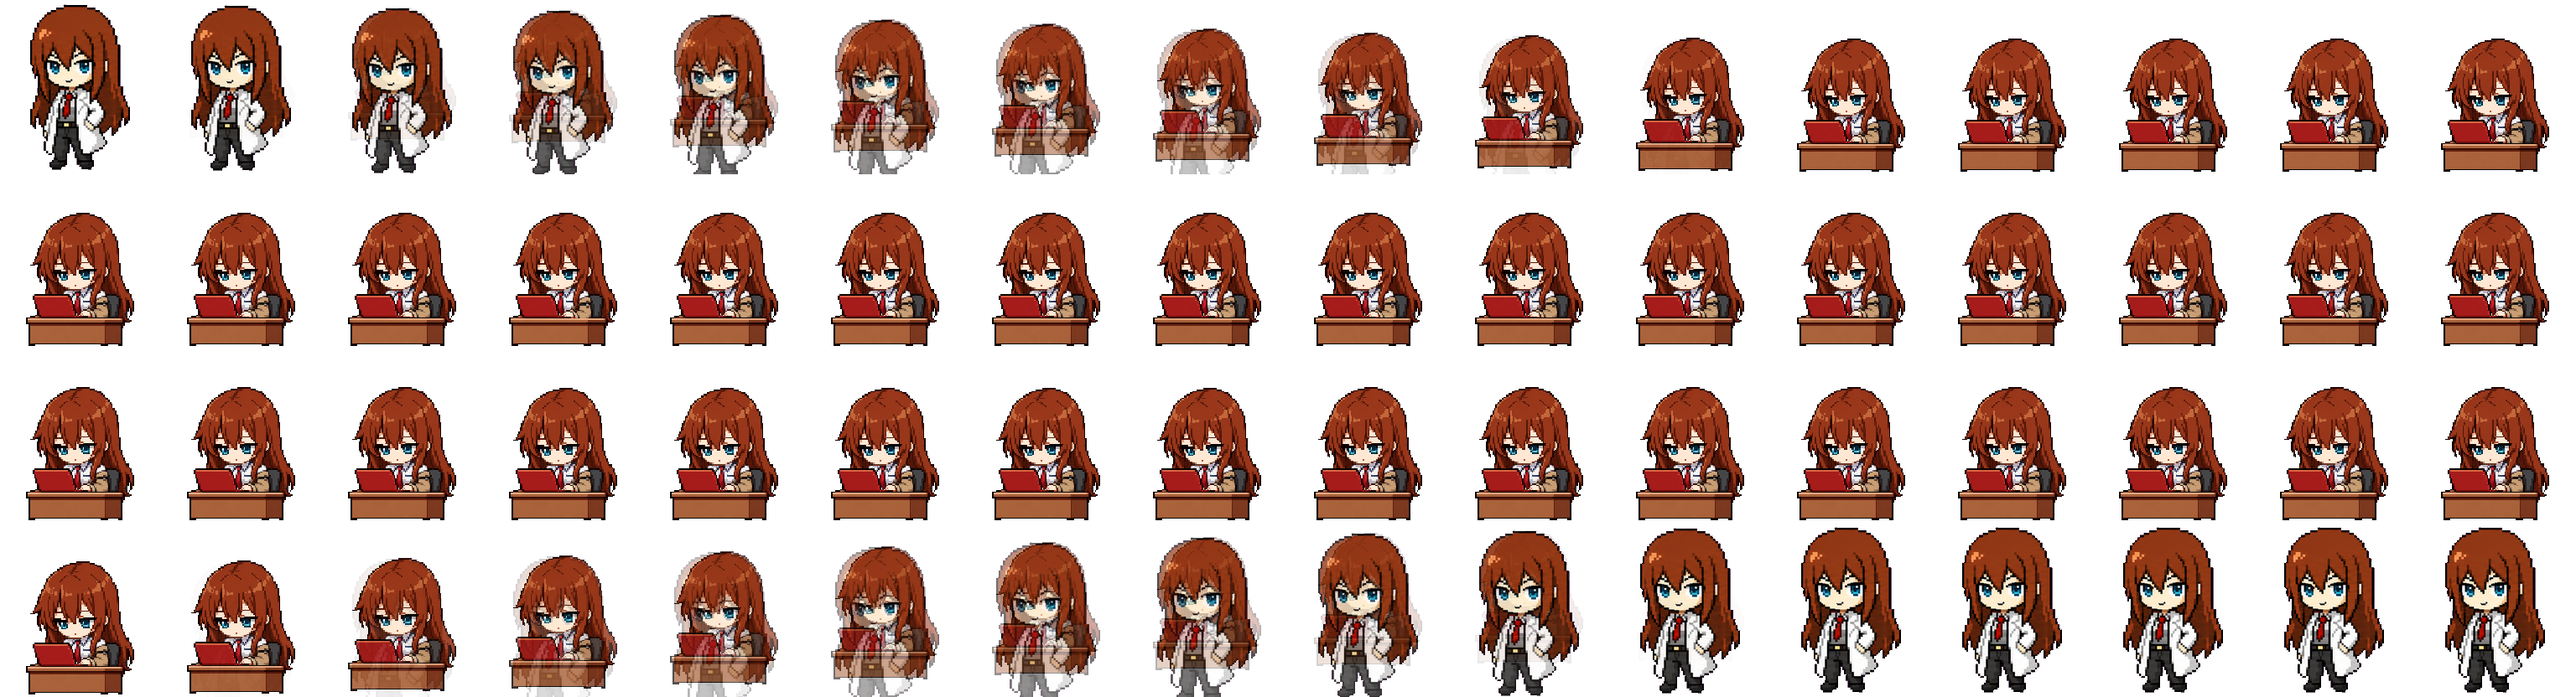
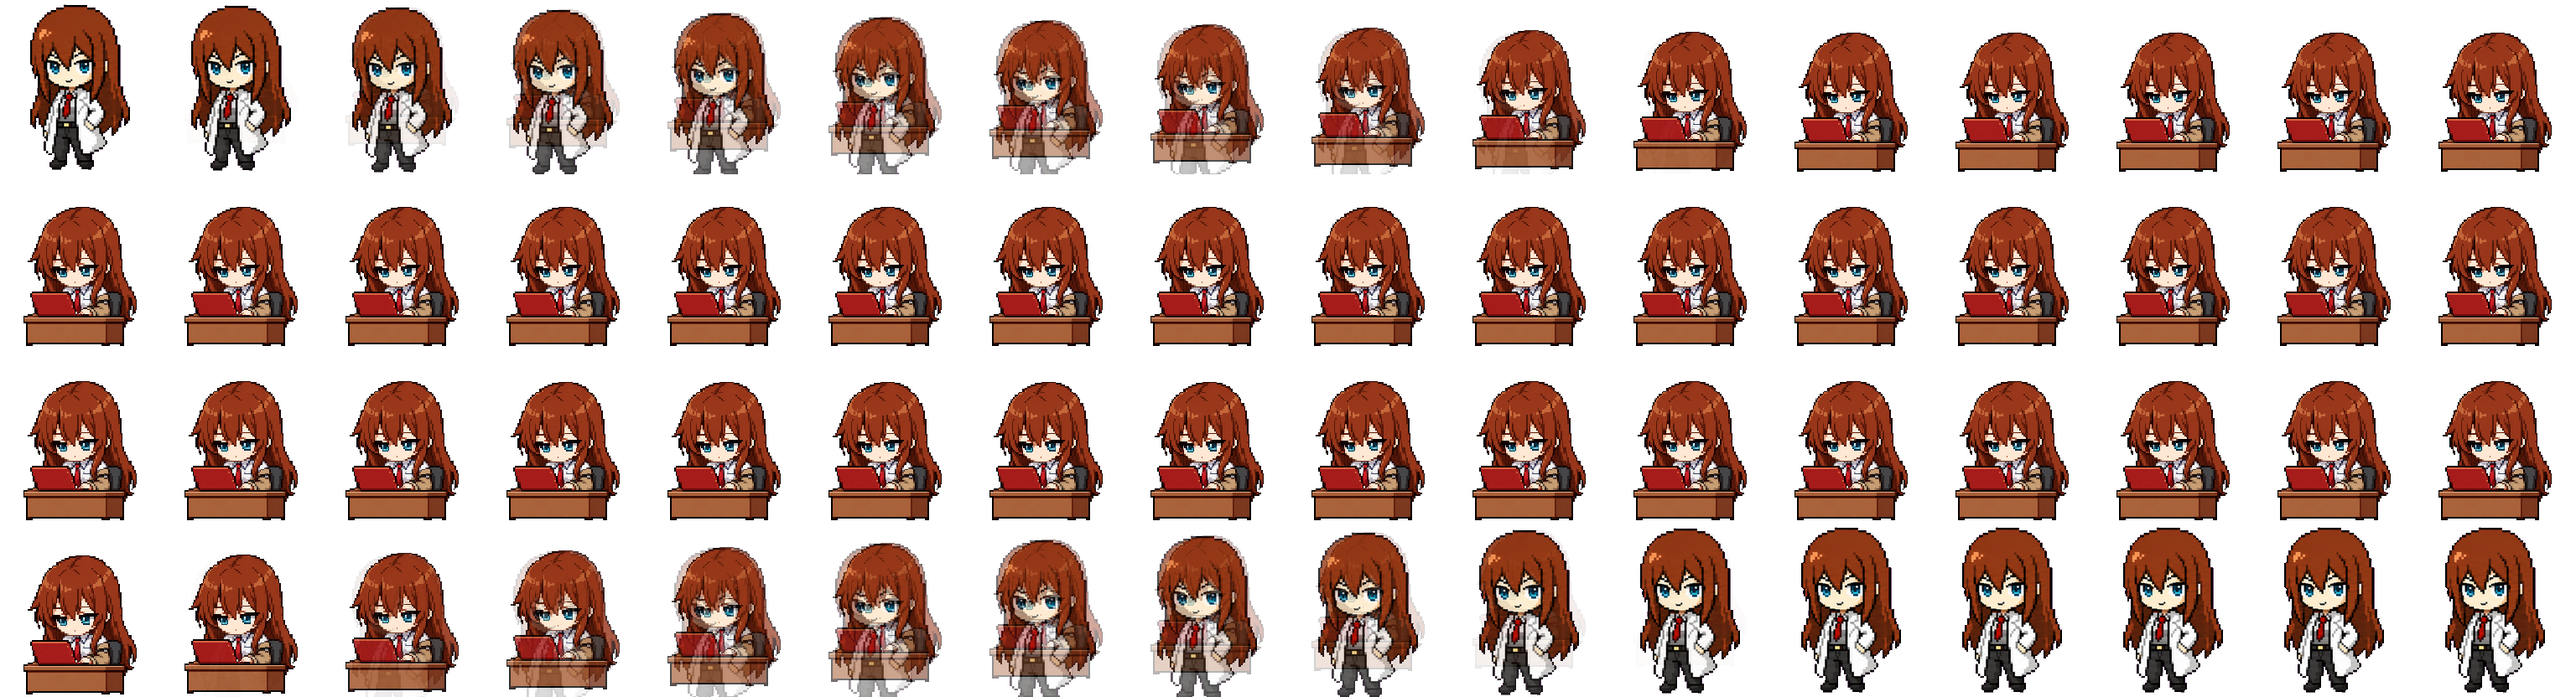
fix: restore click reaction and adjust typing sprite scale

diff --git a/KurisuDesktop/Sources/SpriteAtlas.swift b/KurisuDesktop/Sources/SpriteAtlas.swift
@@ -42,6 +42,18 @@ final class SpriteAtlas {
         images[.sleep] = (0..<8).compactMap { index in
             restSheet.cropping(to: CGRect(x: index * 192, y: 0, width: 192, height: 208))
         }
+        // Normalize the oversized click reaction per frame. Both rendering and
+        // alpha hit maps consume these same prepared images.
+        guard let happyURL = Bundle.main.url(forResource: "kurisu-happy", withExtension: "png"),
+              let happySource = CGImageSourceCreateWithURL(happyURL as CFURL, nil),
+              let happySheet = CGImageSourceCreateImageAtIndex(happySource, 0, nil),
+              happySheet.width == 960, happySheet.height == 208 else {
+            throw NSError(domain: "Kurisu", code: 4,
+                          userInfo: [NSLocalizedDescriptionKey: "缺少统一尺寸的点击动作素材，请重新构建完整应用。"])
+        }
+        images[.happy] = (0..<PetPose.happy.frameCount).compactMap { index in
+            happySheet.cropping(to: CGRect(x: index * 192, y: 0, width: 192, height: 208))
+        }
         guard let laptopURL = Bundle.main.url(forResource: "kurisu-laptop", withExtension: "png"),
               let laptopSource = CGImageSourceCreateWithURL(laptopURL as CFURL, nil),
               let laptopSheet = CGImageSourceCreateImageAtIndex(laptopSource, 0, nil),

diff --git a/KurisuDesktop/Sources/AppModel.swift b/KurisuDesktop/Sources/AppModel.swift
@@ -97,7 +97,11 @@ final class AppModel: ObservableObject {
         hasRestoredPosition = true
         savePosition()
         utilityWindows = UtilityWindows(store: utilities, anchor: panel)
-        pet.onTap = { [weak self] in self?.utilityWindows?.toggleTools() }
+        pet.onTap = { [weak self] in
+            guard let self else { return }
+            self.play(.happy)
+            self.utilityWindows?.toggleTools()
+        }
         pet.onDrop = { [weak self] board in
             guard let self else { return false }
             let accepted = self.utilities.acceptPasteboard(board)
@@ -290,6 +294,10 @@ final class AppModel: ObservableObject {
         guard !paused else { return }
         laptopPreviewStarted = -.infinity
         laptopAnimation.reset()
+        // Explicit reactions take over from previous typing; fresh keys can
+        // still interrupt them immediately through receivedKeyboard(count:).
+        lastKey = -.infinity
+        keyTimes.removeAll()
         forcedPose = pose
         forcedUntil = ProcessInfo.processInfo.systemUptime + (pose == .sleep ? 8 : 2.4)
         poseStarted = ProcessInfo.processInfo.systemUptime

diff --git a/scripts/prepare_laptop_assets.py b/scripts/prepare_laptop_assets.py
@@ -1,9 +1,10 @@
 """Author the approved A6 face and refined local pixel animation at final size.
 
-No new model generation. Keep final-size neutral pixels identical to the preview:
-one resize from the approved logical image directly to the final 155x168 content.
+No new model generation. Resize once from the approved logical image; the
+0.8.4 size adjustment adds 5% to the previous 155x168 content.
 """
 from pathlib import Path
+import json
 from PIL import Image, ImageDraw
 from prepare_state_assets import prepare
 
@@ -11,12 +12,32 @@ ROOT = Path(__file__).resolve().parents[1]
 OUT = ROOT / "outputs"
 RES = ROOT / "KurisuDesktop/Resources"
 CELL = (192, 208)
+TYPING_SIZE_MULTIPLIER = 1.05
 source, ratio, idle, rests = prepare()
 base = Image.new("RGBA", CELL)
-content = (round(192 * ratio), round(208 * ratio))
+reference_content = (round(192 * ratio), round(208 * ratio))
+reference_offset = ((192-reference_content[0])//2, 208-reference_content[1])
+content = (round(reference_content[0] * TYPING_SIZE_MULTIPLIER),
+           round(reference_content[1] * TYPING_SIZE_MULTIPLIER))
+offset = ((192-content[0])//2, 208-content[1])
 base.alpha_composite(source.resize(content, Image.Resampling.NEAREST),
-                     ((192-content[0])//2, 208-content[1]))
+                     offset)
 base.save(OUT / "Kurisu-approved-face-sprite.png")
+
+
+def mapped_x(x):
+    return offset[0] + round((x-reference_offset[0])*content[0]/reference_content[0])
+
+
+def mapped_y(y):
+    return offset[1] + round((y-reference_offset[1])*content[1]/reference_content[1])
+
+
+HEAD_END = mapped_y(139)
+ARM_TOP, ARM_END = mapped_y(155), mapped_y(173)
+ARM_LEFT, ARM_END_X = mapped_x(97), mapped_x(126)
+WRIST_END_X = mapped_x(109)
+SHOULDER_TOP, SHOULDER_BOTTOM = mapped_y(158), mapped_y(170)
 
 
 def working(press=0, wrist=0, shoulder=0, breath=0):
@@ -25,24 +46,24 @@ def working(press=0, wrist=0, shoulder=0, breath=0):
     # translate the entire head with its approved chin and catchlights intact.
     if breath:
         # Stop above the laptop's top edge; furniture must stay stationary.
-        head = base.crop((0, 0, 192, 139))
-        frame.paste((0,0,0,0), (0,0,192,139))
+        head = base.crop((0, 0, 192, HEAD_END))
+        frame.paste((0,0,0,0), (0,0,192,HEAD_END))
         frame.alpha_composite(head, (0, breath))
     # Source-to-destination row remapping of the forearm. Keep the top/bottom
     # rows pinned, with a one-pixel easing step into the two-pixel press.
     if press or wrist or shoulder:
         original = base.load()
         pixels = frame.load()
-        for y in range(155, 173):
-            for x in range(97, 126):
+        for y in range(ARM_TOP, ARM_END):
+            for x in range(ARM_LEFT, ARM_END_X):
                 # The small hand is left of the sleeve. Shift its interior
                 # rows with a softer lead/lag from the sleeve response.
-                amount = wrist if x < 109 else press
-                if y < 158 or y > 170:
+                amount = wrist if x < WRIST_END_X else press
+                if y < SHOULDER_TOP or y > SHOULDER_BOTTOM:
                     amount = shoulder
-                edge = min(y-155,172-y)
+                edge = min(y-ARM_TOP,ARM_END-1-y)
                 dy = min(amount, max(0, edge))
-                sample_y = min(172, max(155, y-dy))
+                sample_y = min(ARM_END-1, max(ARM_TOP, y-dy))
                 pixels[x,y] = original[x,sample_y]
     return frame
 
@@ -119,9 +140,32 @@ comparison=Image.new("RGB",(1152,480),"#cad9e4")
 draw=ImageDraw.Draw(comparison)
 for col,(label,image) in enumerate([
     ("IDLE / SIZE REFERENCE",idle),("LONG IDLE / MATCHED",rests[5]),
-    ("TYPING / APPROVED A6",base),
+    ("TYPING / A6 +5% SIZE",base),
 ]):
     draw.text((col*384+12,12),label,fill="#243746")
     comparison.paste(ground(image).resize((384,416),Image.Resampling.NEAREST),(col*384,48))
 comparison.save(OUT/"Kurisu-state-size-comparison.png")
-print("Prepared approved A6 face and 12/16/12/12 animation frames.")
+
+previous = Image.new("RGBA", CELL)
+previous.alpha_composite(source.resize(reference_content, Image.Resampling.NEAREST),
+                         reference_offset)
+size_comparison = Image.new("RGB", (1152,480), "#cad9e4")
+draw = ImageDraw.Draw(size_comparison)
+for col, (label, image) in enumerate([
+    ("IDLE / REFERENCE", idle), ("TYPING / BEFORE", previous),
+    ("TYPING / +5%", base),
+]):
+    draw.text((col*384+12,12), label, fill="#243746")
+    size_comparison.paste(ground(image).resize((384,416),Image.Resampling.NEAREST),
+                          (col*384,48))
+size_comparison.save(OUT/"Kurisu-typing-size-comparison.png")
+(OUT/"typing-size-details.json").write_text(json.dumps({
+    "size_multiplier": TYPING_SIZE_MULTIPLIER,
+    "previous_content": reference_content, "content": content,
+    "offset": offset,
+    "animation_regions": {"head_end": HEAD_END, "arm_top": ARM_TOP,
+                          "arm_end": ARM_END, "arm_left": ARM_LEFT,
+                          "arm_end_x": ARM_END_X},
+    "note": "Same approved A6 source; one nearest-neighbor resize; floor anchored.",
+}, indent=2) + "\n")
+print(f"Prepared approved A6 at {content}, +5% size, and 12/16/12/12 frames.")

diff --git a/scripts/prepare_click_assets.py b/scripts/prepare_click_assets.py
@@ -1,0 +1,72 @@
+"""Match the original happy/click frames to the ordinary idle head width."""
+from pathlib import Path
+import json
+from PIL import Image, ImageDraw
+
+ROOT = Path(__file__).resolve().parents[1]
+RES = ROOT / "KurisuDesktop/Resources"
+OUT = ROOT / "outputs"
+CELL = (192, 208)
+SCALP_END = 60  # Above hands and trailing hair in all five source frames.
+
+
+def scalp_width(image, start=0, end=SCALP_END):
+    alpha = image.getchannel("A")
+    spans = []
+    for y in range(start, end):
+        bounds = alpha.crop((0, y, image.width, y + 1)).getbbox()
+        if bounds:
+            spans.append(bounds[2] - bounds[0])
+    return max(spans, default=1)
+
+
+def prepare():
+    OUT.mkdir(parents=True, exist_ok=True)
+    source = Image.open(RES / "kurisu.png").convert("RGBA")
+    idle = source.crop((0, 0, *CELL))
+    target = scalp_width(idle)
+    strip = Image.new("RGBA", (CELL[0] * 5, CELL[1]))
+    frames = []
+    metrics = []
+    for index in range(5):
+        original = source.crop((index * 192, 4 * 208, (index + 1) * 192, 5 * 208))
+        before = scalp_width(original)
+        ratio = min(1.0, target / before)
+        size = (round(192 * ratio), round(208 * ratio))
+        offset = ((192 - size[0]) // 2, 208 - size[1])
+        frame = Image.new("RGBA", CELL)
+        frame.alpha_composite(original.resize(size, Image.Resampling.NEAREST), offset)
+        strip.alpha_composite(frame, (index * 192, 0))
+        frames.append(frame)
+        metrics.append({
+            "frame": index, "scale": round(ratio, 4),
+            "head_width_before": before,
+            "head_width_after": scalp_width(frame, offset[1],
+                                           offset[1] + round(SCALP_END * ratio)),
+        })
+    strip.save(RES / "kurisu-happy.png")
+    (OUT / "click-scale-details.json").write_text(json.dumps({
+        "idle_head_width": target, "frames": metrics,
+        "method": "uniform nearest-neighbor scale per frame, centered on a common floor",
+    }, indent=2) + "\n")
+
+    # Preview the exact runtime strip beside the reference pose.
+    preview = Image.new("RGBA", (6 * 192, 236), "#cad9e4")
+    draw = ImageDraw.Draw(preview)
+    for index, frame in enumerate([idle] + frames):
+        preview.alpha_composite(frame, (index * 192, 28))
+        label = "Idle reference" if index == 0 else f"Click {index}"
+        draw.text((index * 192 + 10, 8), label, fill="#243746")
+    preview.convert("RGB").save(OUT / "Kurisu-click-size-comparison.png")
+    animation = []
+    for frame in [idle] * 4 + frames * 2 + [idle] * 4:
+        background = Image.new("RGBA", CELL, "#cad9e4")
+        background.alpha_composite(frame)
+        animation.append(background.resize((384, 416), Image.Resampling.NEAREST).convert("RGB"))
+    animation[0].save(OUT / "Kurisu-click-preview.gif", save_all=True,
+                      append_images=animation[1:], duration=180, loop=0, disposal=2)
+    print(json.dumps({"idle_head_width": target, "frames": metrics}, indent=2))
+
+
+if __name__ == "__main__":
+    prepare()

diff --git a/scripts/prepare_state_assets.py b/scripts/prepare_state_assets.py
@@ -121,7 +121,7 @@ def prepare():
     base = Image.open(SOURCE / "typing-face-approved.png").convert("RGBA")
     aligned = align(base, ratio)
     base.save(WORK / "typing-base-before-scale.png")
-    aligned.resize(CELL, Image.Resampling.NEAREST).save(OUT / "Kurisu-approved-02-sprite.png")
+    aligned.resize(CELL, Image.Resampling.NEAREST).save(WORK / "typing-reference-scale.png")
     (OUT / "state-scale-details.json").write_text(json.dumps({
         "method": "uniform whole-sprite nearest-neighbor scaling; idle scalp width as reference",
         "idle_head_width": target * 2,

diff --git a/docs/ASSETS.md b/docs/ASSETS.md
@@ -12,15 +12,29 @@ review process. Those trial directories have been moved into local
 `work/archive/artwork/` and are not required to build or regenerate the app.
 Generated previews, app bundles, local archives, caches and logs are ignored.
 
-## Current approved A6 face and refined animation (0.7.0)
+## Typing size adjustment (0.8.4)
+
+The user requested a slight increase after comparing with idle. The previous
+scalp-width match included lower trailing hair; the visible forehead measured
+roughly 98–100 pixels against idle's 108. `prepare_laptop_assets.py` now applies
+a 1.05 size multiplier, changing content from 155 × 168 to 163 × 176 pixels
+inside the same 192 × 208 cell. It still resizes directly from the approved A6
+logical source once with nearest-neighbor sampling, centered on the same floor.
+Hand/shoulder regions and the breathing cutoff follow the new size and offset.
+All entry, typing, waiting and exit frames use this same adjusted base.
+`outputs/Kurisu-typing-size-comparison.png` shows idle, previous and adjusted
+typing; `outputs/typing-size-details.json` records the exact geometry.
+
+## Approved A6 face and refined animation (0.7.0)
 
 The user approved `outputs/typing-face-pixel-round/A6-chin-right-restored-logical.png`
 after reviewing local cheek/chin contour edits. This is now the typing source.
 The 0.6.0 chosen anime outfit, gaze, eyes and catchlights remain the basis.
 This step is disclosed local pixel polish, not a new model image.
 
-`prepare_laptop_assets.py` scales that source once directly to 155 × 168 content
-inside a 192 × 208 cell, exactly as in the accepted preview. It authors 12 entry,
+At 0.7.0, `prepare_laptop_assets.py` scaled that source once directly to
+155 × 168 content inside a 192 × 208 cell, exactly as in the accepted preview.
+The 0.8.4 adjustment above supersedes that size. The script authors 12 entry,
 16 typing, 12 waiting, and 12 exit frames at final output pixel resolution.
 The 3072 × 832 atlas uses 16 columns per row, padding unused cells with the final
 frame. Runtime frame loading and alpha click maps use the same 64-cell layout.
@@ -41,6 +55,17 @@ request via `npx petdex@latest install kurisu`.
 matte fringes. The original sheet has 8 × 9 cells of 192 × 208 pixels.
 `AppIcon.icns` uses the original idle frame on a slate blue tile.
 `menubar.png` is a locally authored monochrome silhouette.
+
+### Click reaction normalization (0.8.3)
+
+`scripts/prepare_click_assets.py` derives `kurisu-happy.png` (960 × 208)
+from the original five happy frames. The maximum silhouette width in the top
+60 source rows supplies a scalp/forehead reference of 108 pixels from idle;
+this band avoids the moving hands and trailing hair. Each whole frame scales
+uniformly with nearest-neighbor sampling, centered on the same floor.
+The five scale factors are approximately 0.844, 0.973, 0.900, 0.931 and 0.947.
+Runtime rendering and alpha hit maps both use this separate normalized strip.
+The original source sheet and facial artwork remain intact.
 
 ## Current approved anime outfit 02 and scale alignment (0.6.0)
 

diff --git a/docs/PROGRESS.md b/docs/PROGRESS.md
@@ -1,5 +1,38 @@
 # 阶段记录
 
+## 2026-11-05：收尾整理
+
+- 补齐 0.8.4 更新说明及 README 的当前功能、素材重建命令。
+- 正式源码、运行素材、生成输入、脚本和文档继续分目录保存。
+- 删除编译缓存、渲染临时文件、旧 Git 索引备份、Python 缓存及过时预览，
+  共清理约 287.23 MiB；历史素材归档保留在本地 work/archive。
+- 保留 outputs/Kurisu.app 的路径和当前正式预览，新增本地输出索引；
+  中间缩放参考图改为写入 work，避免与正式素材混淆。
+- .gitignore 已覆盖这些本地产物，应用用户数据不属于项目目录。
+- 本次整理未改变应用行为，未添加或运行自动化测试。
+
+## 0.8.4：打字形态略微放大
+
+- 复核发现旧版打字额头区域约 98–100 像素宽，普通待机约 108；
+  之前宽度一致的测量包含了打字形态较低处的长发外缘，不能代表视觉上一致。
+- 按用户要求将打字形态整体再放大约 5%，内容从 155 × 168 改为 163 × 176；
+  从原始已确认 A6 素材一次最近邻缩放，保留脸型和五官。
+- 同步重建进入、打字、等待、退出图集；手腕和头部呼吸区域随尺寸映射，
+  避免放大后动作区域错位或带动电脑边缘。
+- 已查看待机/调整前/调整后的同尺寸对照；调整后额头区域约 104–106 像素，
+  更接近待机，因低头角度和头型不同不宣称所有轮廓完全相等。
+- 0.8.4 已编译并打开；未添加或运行自动化测试。
+
+## 0.8.3：恢复点击动作
+
+- 点击小人同时播放原有开心动作并切换随手工具；恢复点击的动画反馈。
+- 显式动作接管上一轮打字状态，新的键盘活动仍可立即进入打字。
+- 五帧开心素材逐帧按普通待机的头顶至额头宽度等比缩小；
+  不把甩动长发及举起的手纳入头部宽度，使用最近邻保持清晰像素。
+- 动作渲染和透明点击区域共用缩放后的图集。
+- 已查看实际图集对照，五帧额头宽度与待机相差不超过一个素材像素；
+  0.8.3 已编译并打开，未添加或运行自动化测试。
+
 ## 0.8.2：工具窗口标题栏
 
 - 移除工具面板的紧凑 utilityWindow 样式，采用标准尺寸的原生标题栏按钮。

diff --git a/docs/releases/0.8.4-更新说明.md b/docs/releases/0.8.4-更新说明.md
@@ -1,0 +1,28 @@
+# Kurisu 0.8.4 · 点击动作与尺寸调整
+
+## 点击小人
+
+- 恢复原有“开心”动作，同时切换随手工具面板。
+- 五帧分别按普通待机的头顶、额头宽度缩放，保持清晰像素。
+- 渲染和透明点击区域使用同一套调整后的素材。
+- 点击可接管上一轮打字状态；新的键盘活动仍可立即触发打字。
+
+## 坐下打字
+
+- 整体放大约 5%，内容从 155 × 168 改为 163 × 176 像素。
+- 使用已确认的 A6 原素材直接缩放，保留脸型、眼神和服装。
+- 同步更新进入、打字、等待和退出动画，重新映射手腕与呼吸区域。
+- 之前的测量包含较低处的长发外缘，低估了视觉差异；
+  调整后更接近待机头部大小，低头角度和头型仍会影响轮廓。
+
+## 本地文件
+
+- 应用：`outputs/Kurisu.app`，位置保持稳定。
+- 动画预览：`outputs/Kurisu-click-preview.gif`、
+  `outputs/Kurisu-laptop-preview.gif`。
+- 尺寸对照：`outputs/Kurisu-click-size-comparison.png`、
+  `outputs/Kurisu-typing-size-comparison.png`。
+- 正式素材位于 `KurisuDesktop/Resources/`，生成输入位于 `assets/source/`，
+  素材脚本位于 `scripts/`。构建使用仓库内素材，无需调用生图接口。
+
+0.8.4 已在本机完成编译并打开；已查看素材对照，未添加或运行自动化测试。
